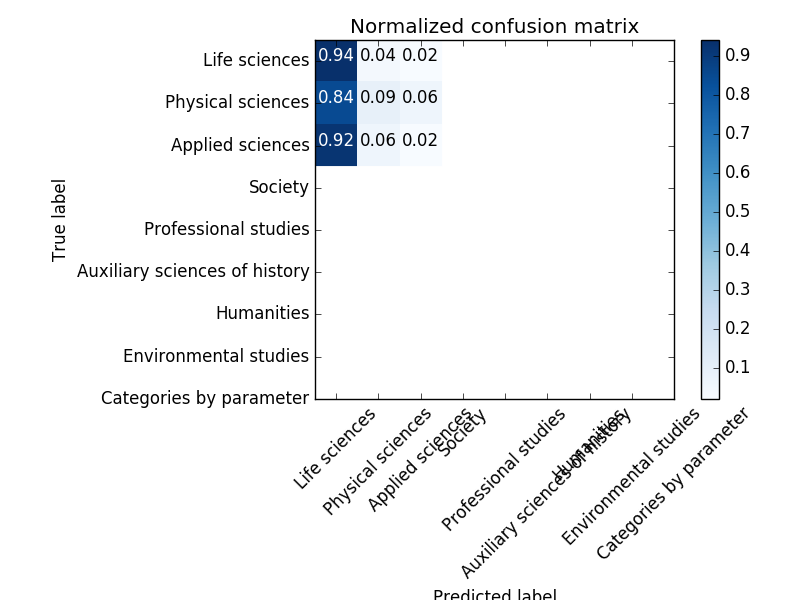
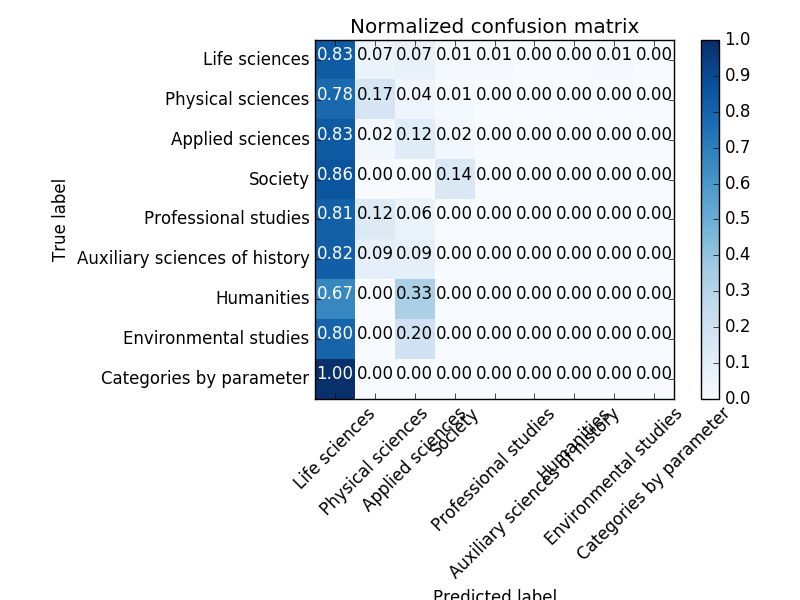
clustering

diff --git a/m3/training.py b/m3/training.py
@@ -1,3 +1,4 @@
+from __future__ import print_function
 from SPARQLWrapper import SPARQLWrapper, JSON
 import pprint
 from lxml import etree, objectify
@@ -22,12 +23,30 @@ import numpy as np
 
 import gensim
 from gensim.models.doc2vec import TaggedDocument, LabeledSentence, Doc2Vec
-from sklearn.metrics import confusion_matrix,roc_curve
+from sklearn.metrics import confusion_matrix, roc_curve, pairwise_distances_argmin, silhouette_score, silhouette_samples
 import matplotlib.pyplot as plt
 
 from sklearn.model_selection import cross_val_score
 
 
+
+from sklearn.datasets import fetch_20newsgroups
+from sklearn.decomposition import TruncatedSVD
+from sklearn.feature_extraction.text import TfidfVectorizer
+from sklearn.feature_extraction.text import HashingVectorizer
+from sklearn.feature_extraction.text import TfidfTransformer
+from sklearn.pipeline import make_pipeline
+from sklearn.preprocessing import Normalizer
+from sklearn import metrics
+import matplotlib.cm as cm
+from sklearn.cluster import KMeans, MiniBatchKMeans
+
+import logging
+from optparse import OptionParser
+import sys
+from time import time
+
+import numpy as np
 
 def plot_confusion_matrix(cm, classes,
                           normalize=False,
@@ -92,10 +111,10 @@ df = df.join(df_grouped,  on='subject', how='right')
 
 df.columns = ['formula_label', 'symbol_set', 'subject', 'count']
 
-df = df[df['count'] > 200]
+# df = df[df['count'] > 100]
 # print df['subject'].unique()
 # exit()
-print df.groupby(['subject']).size()
+print (df.groupby(['subject']).size())
 
 symbol_set_all = set()
 for symbol_set  in (df['symbol_set'].tolist()):
@@ -150,7 +169,7 @@ label_encoder_model = label_encoder.fit(values)
 integer_encoded = label_encoder_model.transform(values)
 integer_encoded = integer_encoded.reshape(len(integer_encoded), 1)
 
-onehot_encoder = OneHotEncoder(sparse=True)
+onehot_encoder = OneHotEncoder(sparse=False)
 onehot_encoder_model =onehot_encoder.fit(integer_encoded)
 
 
@@ -233,8 +252,20 @@ df =  pd.DataFrame(d)
 X = list(df['features'])
 X = np.array(X)
 from scipy import sparse
-X=sparse.csr_matrix(X)
+# X=sparse.csr_matrix(X)
+
 # print(b)
+from sklearn.decomposition.truncated_svd import TruncatedSVD
+from sklearn.decomposition.sparse_pca import SparsePCA
+from sklearn.decomposition import  dict_learning_online
+
+
+sparsepca =SparsePCA(n_components=200)
+X= sparsepca.fit_transform(X)
+
+pca = TruncatedSVD(n_components=2)
+# X = pca.fit_transform(X)
+
 
 # X = X.reshape(-1, 1)
 
@@ -246,10 +277,151 @@ X_train, X_test, y_train, y_test = train_test_split(X,Y , test_size=0.2,  random
 #
 
 
-print 'RandomForestClassifier'
+print ('Clustering')
+
+
+km = KMeans(n_clusters=len(class_names), init='k-means++', max_iter=100, n_init=1,
+                verbose=True)
+range_n_clusters = [2, 3, 4, 5, 6 , 9 ]
+
+for n_clusters in range_n_clusters:
+    # Create a subplot with 1 row and 2 columns
+    fig, (ax1, ax2) = plt.subplots(1, 2)
+    fig.set_size_inches(18, 7)
+
+    # The 1st subplot is the silhouette plot
+    # The silhouette coefficient can range from -1, 1 but in this example all
+    # lie within [-0.1, 1]
+    ax1.set_xlim([-0.1, 1])
+    # The (n_clusters+1)*10 is for inserting blank space between silhouette
+    # plots of individual clusters, to demarcate them clearly.
+    print (len(X))
+    ax1.set_ylim([0, len(X) + (n_clusters + 1) * 10])
+
+    # Initialize the clusterer with n_clusters value and a random generator
+    # seed of 10 for reproducibility.
+    clusterer = KMeans(n_clusters=n_clusters, random_state=10)
+    cluster_labels = clusterer.fit_predict(X)
+
+    # The silhouette_score gives the average value for all the samples.
+    # This gives a perspective into the density and separation of the formed
+    # clusters
+    silhouette_avg = silhouette_score(X, cluster_labels)
+    print("For n_clusters =", n_clusters,
+          "The average silhouette_score is :", silhouette_avg)
+
+    # Compute the silhouette scores for each sample
+    sample_silhouette_values = silhouette_samples(X, cluster_labels)
+
+    y_lower = 10
+    for i in range(n_clusters):
+        # Aggregate the silhouette scores for samples belonging to
+        # cluster i, and sort them
+        ith_cluster_silhouette_values = \
+            sample_silhouette_values[cluster_labels == i]
+
+        ith_cluster_silhouette_values.sort()
+
+        size_cluster_i = ith_cluster_silhouette_values.shape[0]
+        y_upper = y_lower + size_cluster_i
+
+        color = cm.spectral(float(i) / n_clusters)
+        ax1.fill_betweenx(np.arange(y_lower, y_upper),
+                          0, ith_cluster_silhouette_values,
+                          facecolor=color, edgecolor=color, alpha=0.7)
+
+        # Label the silhouette plots with their cluster numbers at the middle
+        ax1.text(-0.05, y_lower + 0.5 * size_cluster_i, str(i))
+
+        # Compute the new y_lower for next plot
+        y_lower = y_upper + 10  # 10 for the 0 samples
+
+    ax1.set_title("The silhouette plot for the various clusters.")
+    ax1.set_xlabel("The silhouette coefficient values")
+    ax1.set_ylabel("Cluster label")
+
+    # The vertical line for average silhouette score of all the values
+    ax1.axvline(x=silhouette_avg, color="red", linestyle="--")
+
+    ax1.set_yticks([])  # Clear the yaxis labels / ticks
+    ax1.set_xticks([-0.1, 0, 0.2, 0.4, 0.6, 0.8, 1])
+
+    # 2nd Plot showing the actual clusters formed
+    colors = cm.spectral(cluster_labels.astype(float) / n_clusters)
+    ax2.scatter(X[:, 0], X[:, 1], marker='.', s=30, lw=0, alpha=0.7,
+                c=colors, edgecolor='k')
+
+    # Labeling the clusters
+    centers = clusterer.cluster_centers_
+    # Draw white circles at cluster centers
+    ax2.scatter(centers[:, 0], centers[:, 1], marker='o',
+                c="white", alpha=1, s=200, edgecolor='k')
+
+    for i, c in enumerate(centers):
+        ax2.scatter(c[0], c[1], marker='$%d$' % i, alpha=1,
+                    s=50, edgecolor='k')
+
+    ax2.set_title("The visualization of the clustered data.")
+    ax2.set_xlabel("Feature space for the 1st feature")
+    ax2.set_ylabel("Feature space for the 2nd feature")
+
+    plt.suptitle(("Silhouette analysis for KMeans clustering on sample data "
+                  "with n_clusters = %d" % n_clusters),
+                 fontsize=14, fontweight='bold')
+
+    plt.savefig('Silhouette'+ str(n_clusters))
+
+
+#
+# print("Clustering sparse data with %s" % km)
+# t0 = time()
+# km.fit(X)
+# t_batch = time() - t0
+# print("done in %0.3fs" % (time() - t0))
+# print()
+#
+# print("Homogeneity: %0.3f" % metrics.homogeneity_score(Y, km.labels_))
+# print("Completeness: %0.3f" % metrics.completeness_score(Y, km.labels_))
+# print("V-measure: %0.3f" % metrics.v_measure_score(Y, km.labels_))
+# print("Adjusted Rand-Index: %.3f"
+#       % metrics.adjusted_rand_score(Y, km.labels_))
+# print("Silhouette Coefficient: %0.3f"
+#       % metrics.silhouette_score(X, km.labels_, sample_size=1000))
+#
+# print()
+#
+# # KMeans
+#
+# fig = plt.figure(figsize=(8, 3))
+# fig.subplots_adjust(left=0.02, right=0.98, bottom=0.05, top=0.9)
+# colors = ['#4EACC5', '#FF9C34', '#4E9A06']
+#
+# # We want to have the same colors for the same cluster from the
+# # MiniBatchKMeans and the KMeans algorithm. Let's pair the cluster centers per
+# # closest one.
+# k_means_cluster_centers = np.sort(km.cluster_centers_, axis=0)
+# k_means_labels = pairwise_distances_argmin(X, k_means_cluster_centers)
+#
+# ax = fig.add_subplot(1, 3, 1)
+# for k, col in zip(range(len(class_names)), colors):
+#     my_members = k_means_labels == k
+#     cluster_center = k_means_cluster_centers[k]
+#     ax.plot(X[my_members, 0], X[my_members, 1], 'w',
+#             markerfacecolor=col, marker='.')
+#     ax.plot(cluster_center[0], cluster_center[1], 'o', markerfacecolor=col,
+#             markeredgecolor='k', markersize=6)
+# ax.set_title('KMeans')
+# ax.set_xticks(())
+# ax.set_yticks(())
+# plt.text(-3.5, 1.8,  'train time: %.2fs\ninertia: %f' % (
+#     t_batch, km.inertia_))
+#
+# plt.savefig('k_means_cluster_centers')
+
+print ('RandomForestClassifier')
 from sklearn.ensemble import RandomForestClassifier
 # rf = RandomForestClassifier()
-rf = RandomForestClassifier(n_estimators=500, oob_score=True, random_state=42)
+rf = RandomForestClassifier(n_estimators=50, oob_score=True, random_state=42)
 rf.fit(X_train, y_train)
 
 from sklearn.metrics import r2_score,f1_score,roc_auc_score
@@ -269,7 +441,7 @@ predicted_test = rf.predict(X_test)
 
 
 # 10-Fold Cross validation
-print 'cross_val_score: ', np.mean(cross_val_score(rf, X_train, y_train, cv=10))
+print ('cross_val_score: ', np.mean(cross_val_score(rf, X_train, y_train, cv=10)))
 
 #
 # print 'confusion_matrix',confusion_matrix(y_test, predicted_test)
@@ -300,8 +472,8 @@ plt.savefig('plot_confusion_matrix_normal_RandomForestClassifier')
 
 
 
-print '-------------------------------------------------------------------'
-print 'DecisionTreeClassifier'
+print ('-------------------------------------------------------------------')
+print ('DecisionTreeClassifier')
 from sklearn.tree import DecisionTreeClassifier
 # rf = RandomForestClassifier()
 dt = DecisionTreeClassifier( random_state=42 ,criterion = 'gini')
@@ -311,7 +483,7 @@ dt.fit(X_train, y_train)
 # predicted_train = dt.predict(X_train)
 predicted_test = dt.predict(X_test)
 
-print 'cross_val_score: ', np.mean(cross_val_score(dt, X_train, y_train, cv=10))
+print ('cross_val_score: ', np.mean(cross_val_score(dt, X_train, y_train, cv=10)))
 
 cnf_matrix = confusion_matrix(y_test, predicted_test)
 np.set_printoptions(precision=2)
@@ -332,15 +504,15 @@ plt.savefig('plot_confusion_matrix_normal_DecisionTreeClassifier')
 
 
 
-print '-------------------------------------------------------------------'
+print ('-------------------------------------------------------------------')
 
-print 'MLPClassifier'
+print ('MLPClassifier')
 from sklearn.neural_network import MLPClassifier
 mlp = MLPClassifier(hidden_layer_sizes=(100,100),max_iter=100)
 
 mlp.fit(X_train, y_train)
 #
-predicted_train = mlp.predict(X_train)
+# predicted_train = mlp.predict(X_train)
 predicted_test = mlp.predict(X_test)
 
 # f1_score = f1_score(y_test, predicted_test,average=None)
@@ -350,7 +522,7 @@ predicted_test = mlp.predict(X_test)
 # print('Test data Spearman correlation: ' ,   spearman[0] )
 # print('Test data Pearson correlation: ' ,  pearson[0] )
 # print('F1 Score: ', f1_score )
-print 'cross_val_score: ', np.mean(cross_val_score(mlp, X_train, y_train, cv=10))
+print ('cross_val_score: ', np.mean(cross_val_score(mlp, X_train, y_train, cv=10)))
 
 
 cnf_matrix = confusion_matrix(y_test, predicted_test)
@@ -371,9 +543,9 @@ plot_confusion_matrix(cnf_matrix, classes=class_names, normalize=True,
 plt.savefig('plot_confusion_matrix_normal_MLPClassifier')
 
 
-print '-------------------------------------------------------------------'
+print ('-------------------------------------------------------------------')
 
-print 'LinearSVC'
+print ('LinearSVC')
 from sklearn.svm import LinearSVC
 svc = LinearSVC(random_state=42)
 
@@ -389,10 +561,10 @@ predicted_test = svc.predict(X_test)
 # print('Test data Spearman correlation: ' ,   spearman[0] )
 # print('Test data Pearson correlation: ' ,  pearson[0] )
 # print('F1 Score: ', f1_score )
-print 'cross_val_score: ', np.mean(cross_val_score(svc, X_train, y_train, cv=10))
+print ('cross_val_score: ', np.mean(cross_val_score(svc, X_train, y_train, cv=10)))
 
 
-cnf_matrix = confusion_matrix(y_test, predicted_test)
+cnf_matrix = confusion_matrix(y_test ,predicted_test)
 np.set_printoptions(precision=2)
 
 # Plot non-normalized confusion matrix
@@ -447,3 +619,26 @@ plt.savefig('plot_confusion_matrix_normal_LinearSVC')
 # enc.transform([[0, 1, 1]]).toarray()
 # array([[ 1.,  0.,  0.,  1.,  0.,  0.,  1.,  0.,  0.]])
 #
+
+exit()
+print("Extracting features from the training dataset using a sparse vectorizer")
+t0 = time()
+use_hashing = True
+use_idf = True
+if use_hashing:
+    if use_idf:
+        # Perform an IDF normalization on the output of HashingVectorizer
+        hasher = HashingVectorizer(n_features=df.n_features,
+                                   stop_words='english', alternate_sign=False,
+                                   norm=None, binary=False)
+        vectorizer = make_pipeline(hasher, TfidfTransformer())
+    else:
+        vectorizer = HashingVectorizer(n_features=df.n_features,
+                                       stop_words='english',
+                                       alternate_sign=False, norm='l2',
+                                       binary=False)
+else:
+    vectorizer = TfidfVectorizer(max_df=0.5, max_features=df.n_features,
+                                 min_df=2, stop_words='english',
+                                 use_idf=df.use_idf)
+X = vectorizer.fit_transform(df.data)
